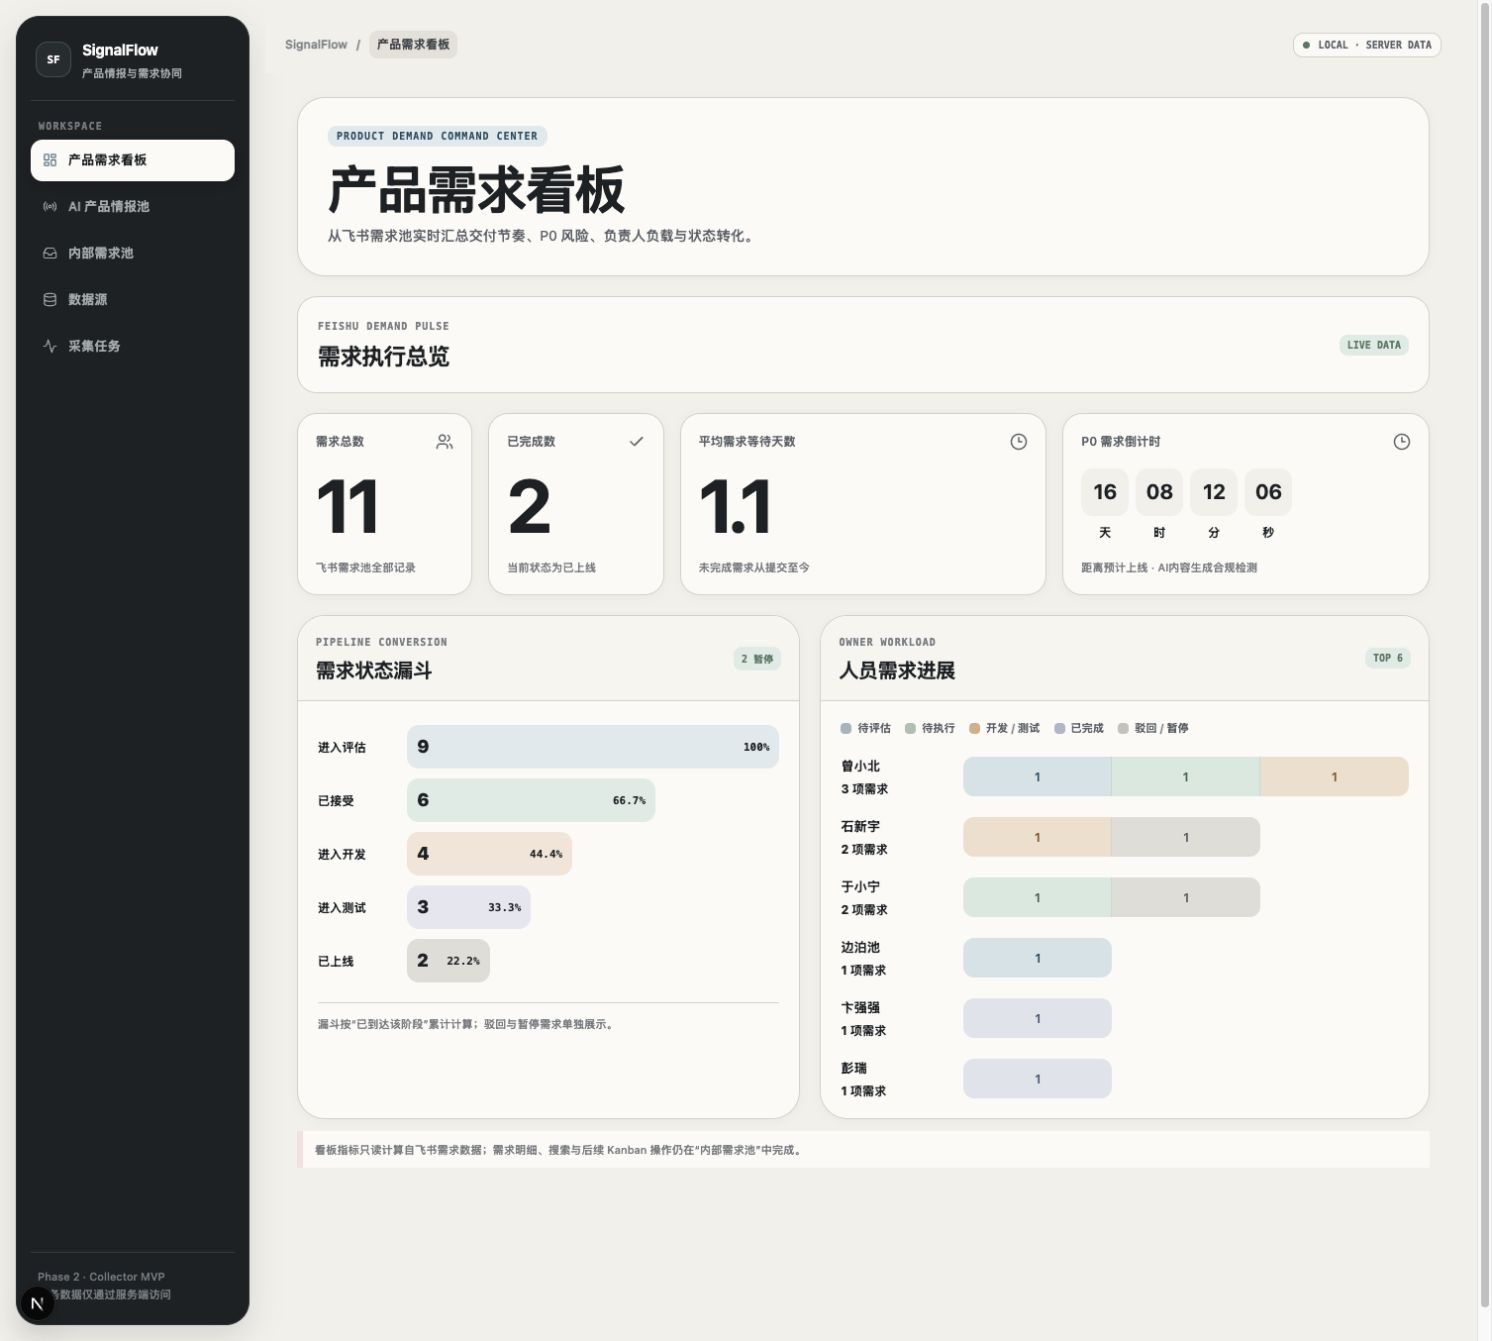
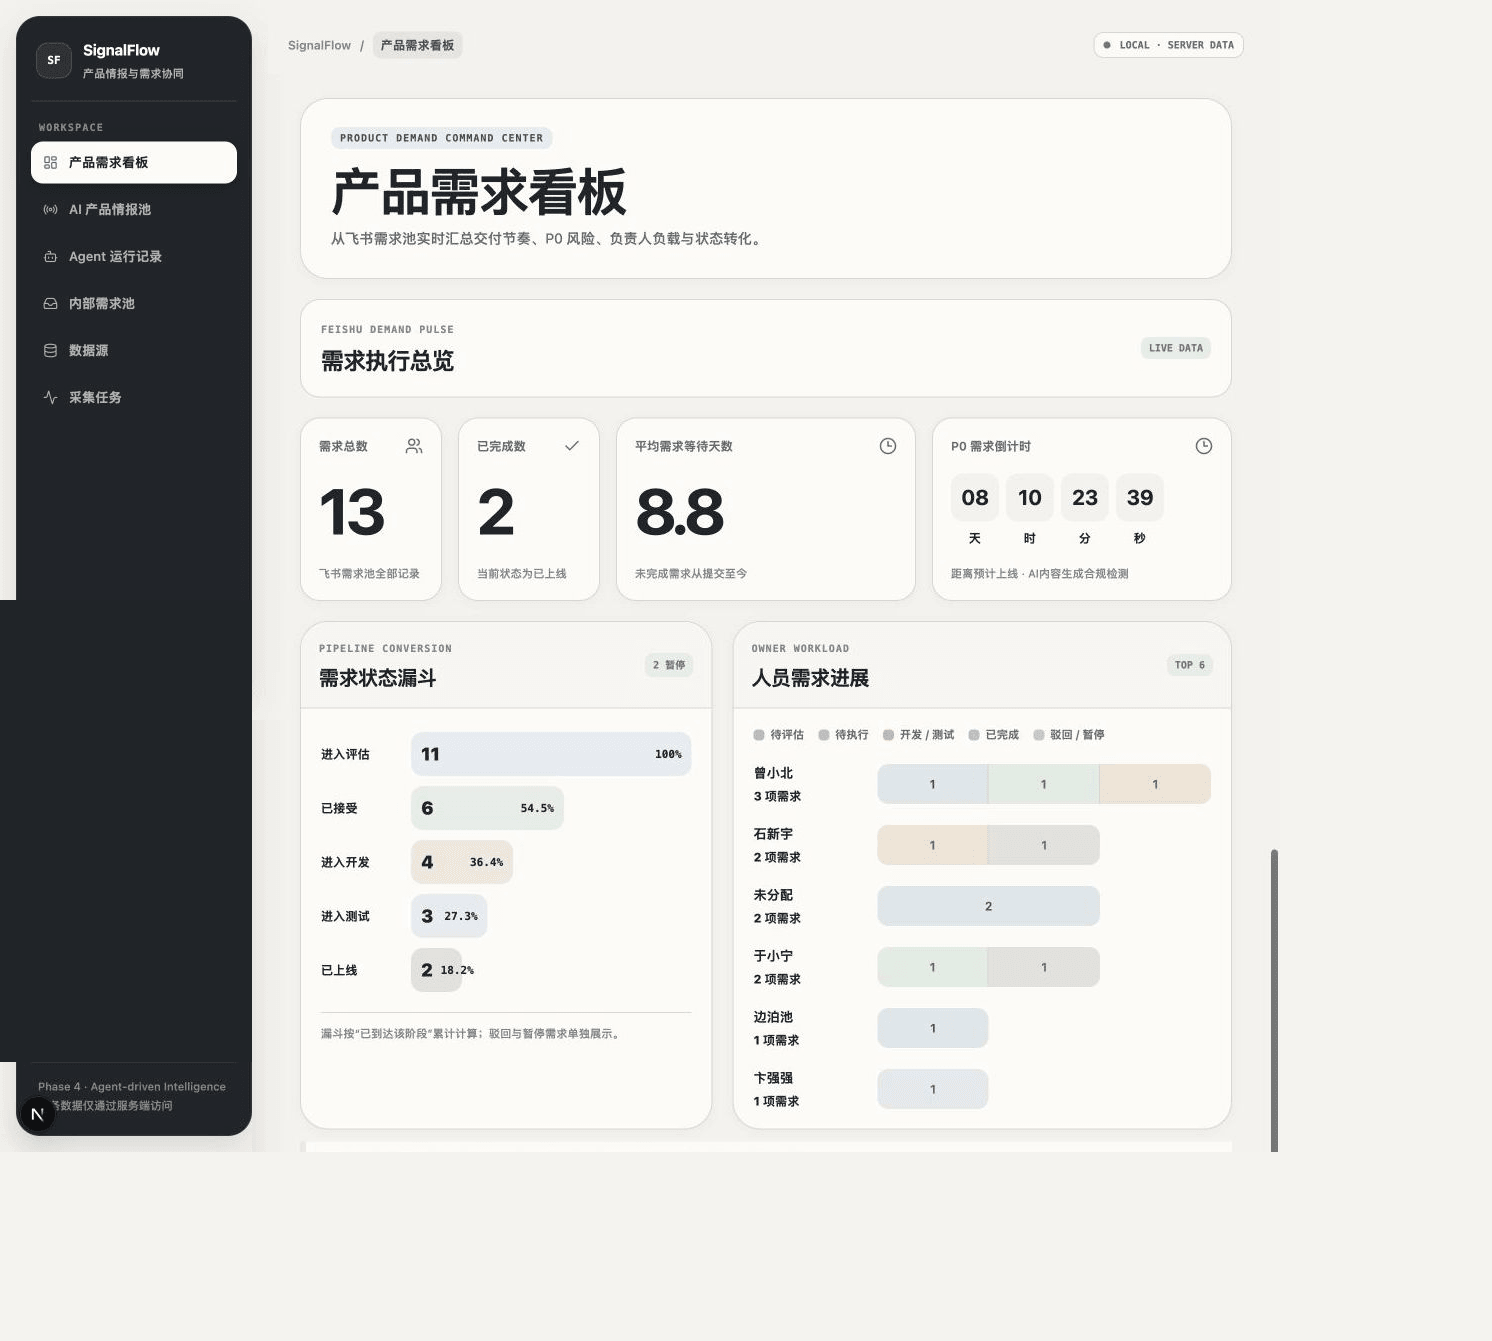
docs: refresh README and product screenshots

diff --git a/README.md b/README.md
@@ -72,13 +72,19 @@ flowchart LR
 
 ![SignalFlow AI 行业情报](docs/screenshots/intelligence-technical.png)
 
-AI 行业情报将 GitHub Trending、AI 媒体与 X 动态收敛到同一阅读流。每条信号保留来源、原始标题、真实发布时间与原文入口，并在证据充分时提供 AI 中文概述和公开热度，让中文产品经理先快速判断“这是什么”，再决定是否深入阅读。
+AI 行业情报将 GitHub Trending、AI 媒体与 X 动态收敛到同一阅读流。每条情报保留来源、原始标题、真实发布时间与原文入口，并提供 AI 中文概述、PM 视角观点和环形机会分。列表按机会分从高到低排列，帮助中文产品经理先判断“这是什么、对产品工作有什么价值”，再决定是否深入阅读。
 
 ### 业务领域情报：在技术趋势之外理解真实生产场景
 
 ![SignalFlow 业务领域情报](docs/screenshots/intelligence-domain.png)
 
 业务领域轨道当前聚焦动漫、短剧、影视与 AIGC。它强调制作流程、内容生产、商业模式和行业变化，避免产品情报只围绕模型参数与技术发布，帮助产品经理把 AI 能力放回具体业务场景中判断机会。
+
+### Agent 运行记录：让 AI 判断过程可检查、可追溯
+
+![SignalFlow Agent 运行记录](docs/screenshots/agent.png)
+
+Agent 运行记录展示当天扫描量、评分覆盖、Memory 重复过滤、高机会情报和自动深度分析结果。每条候选都保留机会分、中文概述与 PM 价值判断；70 分以上的内容可自动进入深度分析，其余内容由产品经理按需触发。分析完成后，情报卡片只保留“深度分析报告”，不再显示重复执行按钮。
 
 ### 内部需求池：让提出、评估与交付状态持续透明
 
